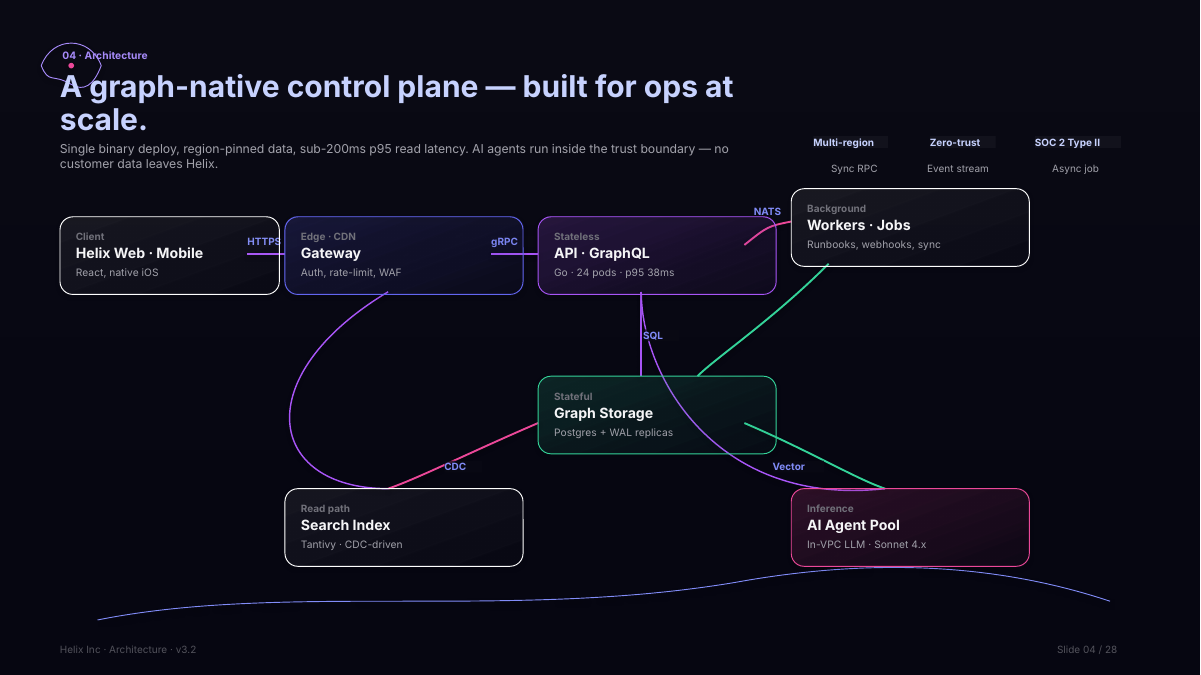
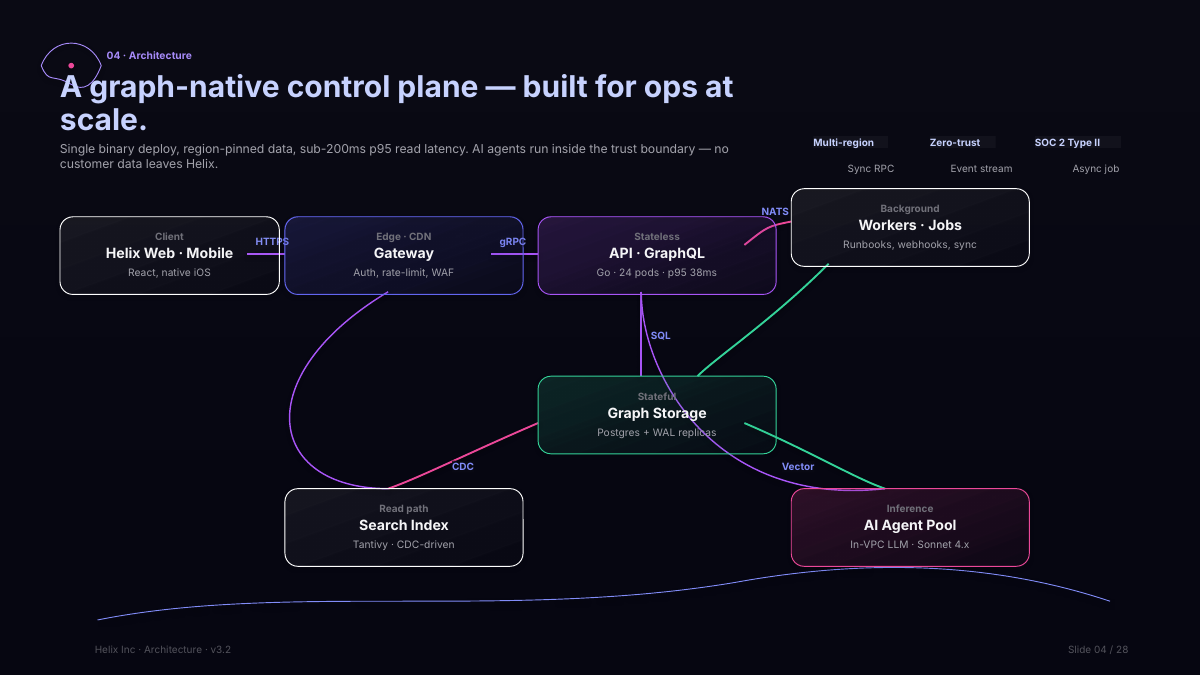
Iteration 4: tight-textbox wrap policy + font-metrics safety margin
The biggest remaining failure mode after wave 3 was font-substitution
wrap: text that fits in CSS Inter at the source bbox would wrap to a
second line in LibreOffice's Liberation Sans render, and that
phantom second line collided with the next vertical row (slide 13
feature title `.t` colliding with description `.d`; slide 03 column
header descriptions stacking on top of headers).

Two surgical changes close most of these:

1. **Safety margin 1.02 → 1.10** in `compute_font_scale_for_textbox`.
   The previous 2% headroom over the fonttools-measured fallback width
   wasn't enough buffer for LibreOffice's actual rendering — a textbox
   measured at ratio=0.99 still wrapped because LibreOffice's metrics
   diverge slightly from fonttools'. 10% headroom forces the autofit
   path earlier and produces a real shrink.

2. **`wrap="none"` on single-line textboxes**. New helper
   `_apply_textframe_wrap_and_scale` sets bodyPr/wrap=none when the
   textbox height is ≤ 1.5 line-heights of the largest run. This
   guarantees that even if our metrics are off by a hair, the
   substituted-font text overflows horizontally rather than reflowing
   into a second line that collides with the next row. Also wires the
   font-metrics autofit into `_emit_text_element_as_own_shape` (the
   per-element emit path used by spatially-distinct rows), which
   previously bypassed autofit entirely.

Visual results:
- slide 13: feature row title + description now render on separate
[…]

diff --git a/slidify/emitter.py b/slidify/emitter.py
@@ -454,10 +454,9 @@ class Emitter:
                 deco_stack.emit_above(slide, emit_bbox)
             return
 
-        # Pre-compute fontScale against the fallback (Liberation Sans /
-        # Calibri) rather than trusting MSO_AUTO_SIZE.TEXT_TO_FIT_SHAPE
-        # at runtime. Bake the result into <a:normAutofit> so the deck
-        # renders identically across PowerPoint and LibreOffice.
+        # Pre-compute fontScale + wrap policy. Single-line textboxes get
+        # `wrap=none` so the wider fallback font doesn't reflow text into
+        # a phantom second line; multi-paragraph textboxes keep wrapping.
         try:
             scale_runs: list[tuple[str, float]] = []
             for e in para_targets:
@@ -466,13 +465,9 @@ class Emitter:
                     continue
                 scale_runs.append((t, max(8.0, parse_pt(e.font_size))))
             if scale_runs:
-                scale = compute_font_scale_for_textbox(
-                    scale_runs, bbox_w_px=emit_bbox.w, bbox_h_px=emit_bbox.h
+                self._apply_textframe_wrap_and_scale(
+                    tf, scale_runs, emit_bbox.w, emit_bbox.h
                 )
-                if scale.needs_autofit:
-                    _apply_explicit_autofit(
-                        tf, scale.font_scale_pct, scale.line_space_reduction_pct
-                    )
         except Exception:
             pass
         first = True
@@ -506,6 +501,16 @@ class Emitter:
         tf.margin_right = Emu(0)
         tf.margin_top = Emu(0)
         tf.margin_bottom = Emu(0)
+        # Per-element font-metrics + wrap policy.
+        try:
+            text = (e.pptx_text or e.text or "").strip()
+            if text:
+                pt_size = max(8.0, parse_pt(e.font_size))
+                self._apply_textframe_wrap_and_scale(
+                    tf, [(text, pt_size)], e.bbox.w, e.bbox.h
+                )
+        except Exception:
+            pass
         paragraphs = self._element_to_paragraphs(e)
         first = True
         for para_runs in paragraphs:
@@ -516,6 +521,49 @@ class Emitter:
             p.alignment = _TEXT_ALIGN_MAP.get(e.text_align, PP_ALIGN.LEFT)
             for run_spec in para_runs:
                 self._add_styled_run(p, run_spec, fallback_el=e)
+
+    def _apply_textframe_wrap_and_scale(
+        self,
+        tf,
+        runs: list[tuple[str, float]],
+        bbox_w_px: float,
+        bbox_h_px: float,
+    ) -> None:
+        """Set wrap policy + explicit normAutofit fontScale on a textframe.
+
+        Single-line textboxes (height <= 1.5 line-heights of the largest
+        run) get ``wrap=none``: even if the fallback font happens to be
+        slightly wider than fonttools predicts, the text won't reflow
+        into a phantom second line that overlaps the next vertical row.
+        Then bake in normAutofit fontScale so PPT clients shrink to fit
+        instead of letting LibreOffice's wider Liberation Sans wrap.
+        """
+        if not runs:
+            return
+        max_pt = max(pt for _, pt in runs) if runs else 12.0
+        # Approximate line-height factor; CSS default is 1.2.
+        line_height_px = max_pt * 1.333 * 1.2
+        is_single_line = bbox_h_px <= line_height_px * 1.5
+
+        if is_single_line:
+            try:
+                from lxml import etree as _et
+
+                bodyPr = tf._txBody.bodyPr  # noqa: SLF001
+                bodyPr.set("wrap", "none")
+            except Exception:
+                pass
+
+        try:
+            scale = compute_font_scale_for_textbox(
+                runs, bbox_w_px=bbox_w_px, bbox_h_px=bbox_h_px
+            )
+            if scale.needs_autofit:
+                _apply_explicit_autofit(
+                    tf, scale.font_scale_pct, scale.line_space_reduction_pct
+                )
+        except Exception:
+            pass
 
     def _element_to_paragraphs(
         self, e: DomElement

diff --git a/slidify/text_metrics.py b/slidify/text_metrics.py
@@ -235,7 +235,7 @@ def compute_font_scale_for_textbox(
     bbox_h_px: float | None = None,
     primary_font: Path | None = None,
     fallback_font: Path | None = None,
-    safety_margin: float = 1.02,
+    safety_margin: float = 1.10,
 ) -> FontScaleResult:
     """Determine the minimum fontScale that lets ``runs`` fit ``bbox_w_px``
     when rendered with ``fallback_font`` (the substituted font on the
